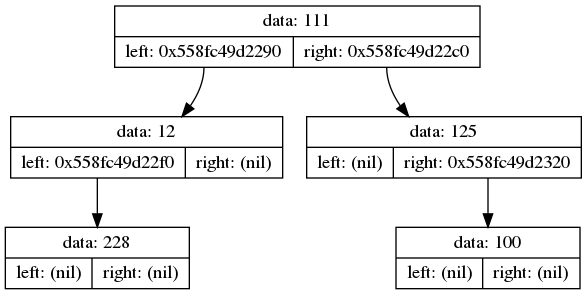
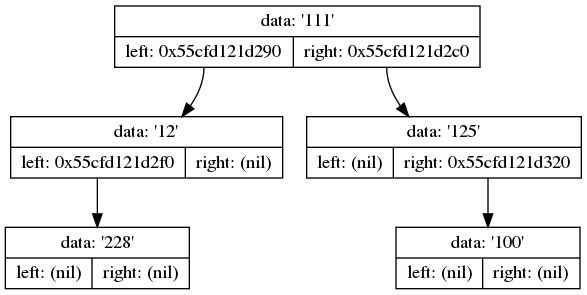
unify dump

diff --git a/Projects/6.Binary_Tree/src/node_methods.h b/Projects/6.Binary_Tree/src/node_methods.h
@@ -82,26 +82,26 @@ Node<elem_t> * Node<elem_t>::addRight (const elem_t data)
 }
 
 template <typename elem_t>
-bool Node<elem_t>::printDot (FILE * log, const char * data, size_t size_of_data)
+bool Node<elem_t>::printDot (FILE * log, const char * format)
 {
     fprintf (log, "\tnode%p [shape = \"record\", label = \"{<f1>data: '", 
             this);
 
-    fwrite (data, size_of_data, 1, log);
+    fprintf (log, format, this->data);
 
     fprintf (log, "'|{<f2>left: %p|<f3>right: %p}}\"];\n", 
             this->left, this->right);
 
     if (this->left)
     {
-        this->left->printDot (log);
+        this->left->printDot (log, format);
 
         fprintf (log, "\tnode%p:f2 -> node%p\n", this, this->left);
     }
 
     if (this->right)
     {
-        this->right->printDot (log);
+        this->right->printDot (log, format);
 
         fprintf (log, "\tnode%p:f3 -> node%p\n", this, this->right);
     }

diff --git a/Projects/6.Binary_Tree/src/tree_class.h b/Projects/6.Binary_Tree/src/tree_class.h
@@ -14,7 +14,7 @@ struct Node
     bool clear ();
 
     bool print (FILE * log);
-    bool printDot (FILE * log, const char * data, size_t size_of_data);
+    bool printDot (FILE * log, const char * format);
 
     Node<elem_t> * addLeft  (const elem_t data);
     Node<elem_t> * addRight (const elem_t data);
@@ -50,7 +50,7 @@ public:
 
     bool print (FILE * log);
     bool dump  (FILE * log);
-    bool dotDump ();
+    bool dotDump (const char * format);
 };
 
 #endif // !TREE_CLASS_H_

diff --git a/Projects/6.Binary_Tree/src/tree_methods.h b/Projects/6.Binary_Tree/src/tree_methods.h
@@ -190,7 +190,7 @@ Node<elem_t> * BinaryTree<elem_t>::rec_search (Node<elem_t> * node, const elem_t
 }
 
 template <typename elem_t>
-bool BinaryTree<elem_t>::dotDump ()
+bool BinaryTree<elem_t>::dotDump (const char * format)
 {
     system("mkdir -p tmp");
 
@@ -198,7 +198,7 @@ bool BinaryTree<elem_t>::dotDump ()
 
     fprintf (log, "digraph dump\n{\n");
 
-    this->root->printDot (log);
+    this->root->printDot (log, format);
 
     fprintf (log, "\n}\n");
 

diff --git a/Projects/6.Binary_Tree/src/run_tests.cpp b/Projects/6.Binary_Tree/src/run_tests.cpp
@@ -12,6 +12,8 @@ int main ()
 
     node1->addLeft (228);
     node2->addRight (100);
+
+    test.dotDump ("%d");
     
     FILE* f = fopen ("test", "w");
     test.print (f);
